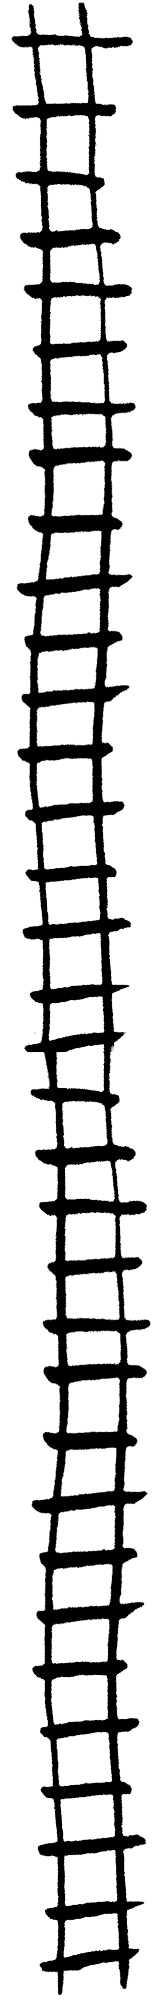
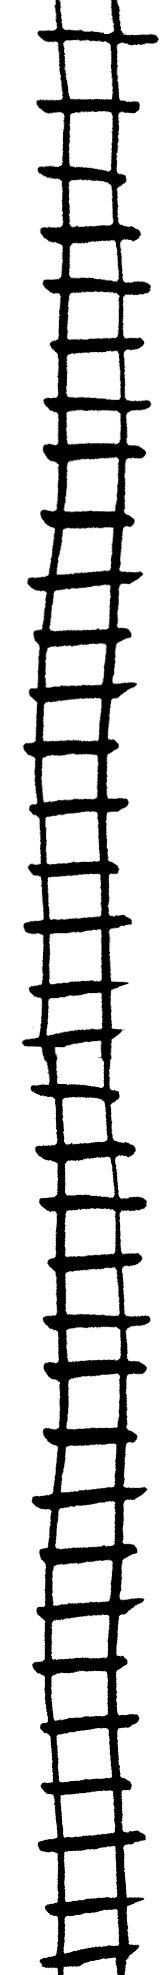
線路をつなげたり、LTのタイトル周りを整えたりしました

Changed region(s): [[0.0938, 0.0, 0.9688, 1.0]]

diff --git a/source/stylesheets/_time-table.css.sass b/source/stylesheets/_time-table.css.sass
@@ -1,6 +1,6 @@
 .time-table
   position: relative
-  width: 520px
+  width: 720px
   margin: 0 auto
   padding-bottom: 180px
   $size: 260px
@@ -15,15 +15,15 @@
     background-size: $size
 
 .time-table__table
-  width: 520px
+  width: 720px
   background-image: image-url('pic-railroad.png')
   background-size: 75px
-  background-repeat: no-repeat
-  background-position: 85px 0
+  background-repeat: repeat-y
+  background-position: 80px 0
   +mq
     width: 320px
-    background-size: 60px
-    background-position: 60px 0
+    background-size: 45px
+    background-position: 55px 0
 
 .time-table__th
   +kanteiryu
@@ -48,18 +48,19 @@
   vertical-align: top
   background-image: image-url('pic-line--long.png')
   background-repeat: no-repeat
-  background-size: 440px
+  background-size: 640px
   background-position: -20px 0
   +mq
-    padding: 20px 20px 10px
+    padding: 20px 10px 10px
     background-size: 250px
-    padding-left: 50px
+    padding-left: 30px
 
 .time-table__hl
   +kanteiryu
   font-size: 24px
   margin-top: 0
   margin-bottom: 0
+  word-break: break-all
   +mq
     font-size: 18px
 
@@ -108,7 +109,7 @@
   top: -40px
   right: 30px
   +mq
-    $width: 70px
+    $width: 60px
     width: $width
     top: -40px
     right: 20px
@@ -120,10 +121,10 @@
   top: 180px
   right: -30px
   +mq
-    $width: 70px
+    $width: 60px
     width: $width
-    top: 180px
-    right: 10px
+    top: 160px
+    right: 0px
 
 .time-table__backpack
   $width: 120px
@@ -132,10 +133,10 @@
   top: 460px
   left: -100px
   +mq
-    $width: 90px
+    $width: 80px
     width: $width
-    top: 400px
-    left: 250px
+    top: 420px
+    left: 280px
 
 .time-table__bicycle
   $width: 140px
@@ -148,3 +149,17 @@
     width: $width
     bottom: 100px
     right: 0px
+
+.time-table__lt
+  padding: 0
+
+.time-table__lt-title
+  +kanteiryu
+  line-height: 1.2
+  margin-bottom: 0
+  +mq
+    font-size: 15px
+    line-height: 1.1
+
+.time-table__lt-speaker
+  +kanteiryu
